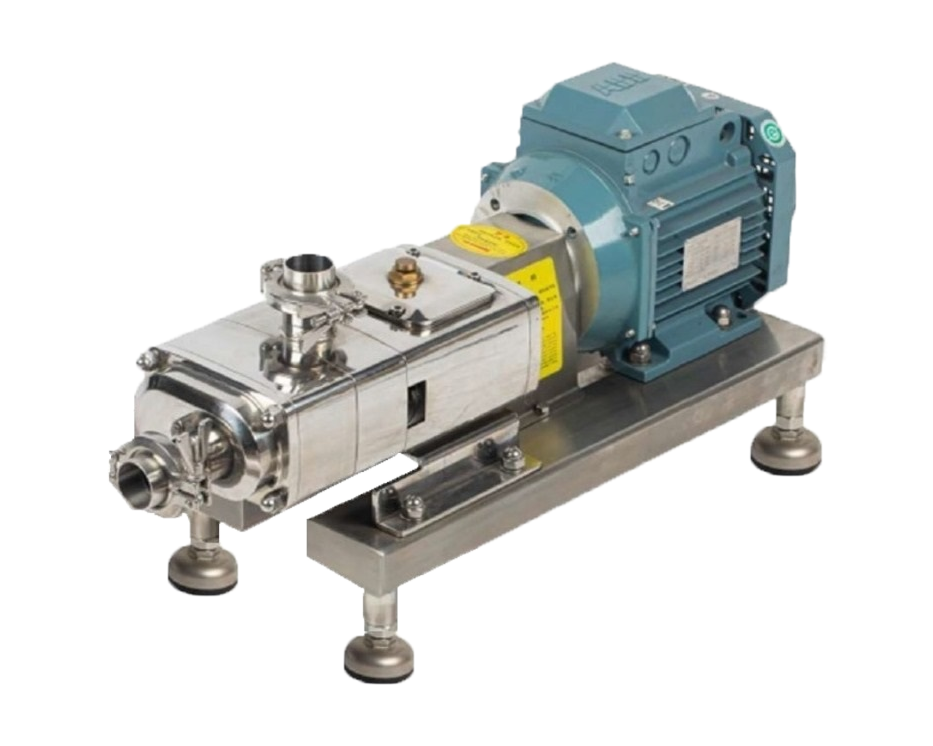
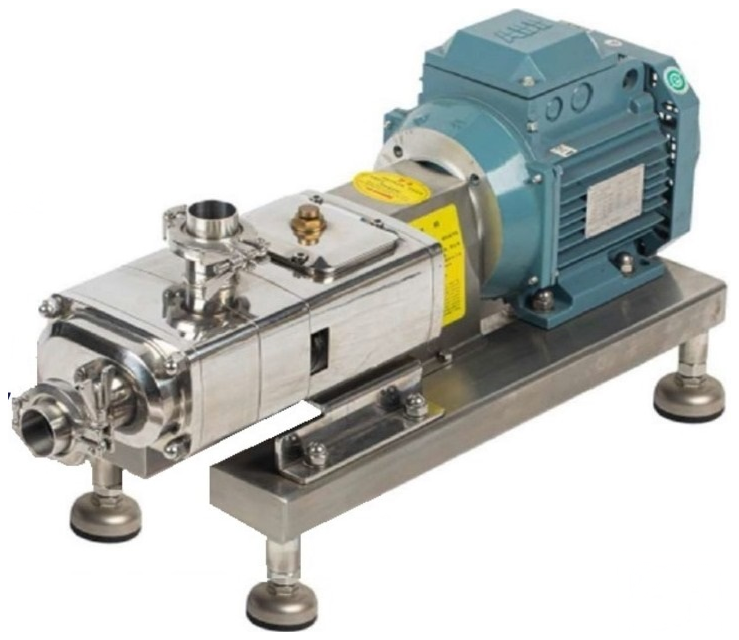
Site: moderniza a secao Nossas solucoes e limpa as fotos de produto
Cards deixam de ser retangulos brancos colados sobre o escuro e passam a
ser paineis escuros translucidos com uma janela clara para o produto. A
secao volta a ler como um campo escuro desenhado, e nao como caixas
brancas cancelando o fundo.

Substitui os tres botoes solidos repetidos por card inteiro clicavel, com
seta que desliza no hover. Acrescenta numeracao de catalogo e etiqueta de
categoria, leitura tecnica coerente com uma industria.

Normaliza a escala dos produtos cortando as margens brancas de cada foto.
Era o que fazia o Triblender parecer menor que as bombas. Placa passa a
ser quadrada, que acomoda melhor proporcoes mistas.

Limpa artefatos das fotos. Com mix-blend-mode multiply o fundo branco da
foto deixa de cobrir a placa, e apareceram fragmentos de texto e uma
marca-d'agua que estavam invisiveis contra branco puro. Removidos por
componente conectado: preserva o produto, que passa pelo centro, e
descarta as ilhas soltas.

Extrai o simbolo do logo dessa mesma marca-d'agua para
identidade/logo-simbolo-extraido.png. E baixa resolucao e serve so como
referencia para redesenho em vetor.

Registra no design-guide que o traco do logo e azul-marinho, nao roxo:
mediana #1E276D, traco puro #142553. O rodape e os botoes do site atual
tambem sao azuis. O Brand ID que originou o guia definiu roxo #40217A
marcando-o como aproximacao. Fica documentado como divergencia a decidir;
nada foi alterado.

Claude-Session: https://claude.ai/code/session_018WP8wJEtLaDmtgyaEpVqpL

diff --git a/site/index.html b/site/index.html
@@ -149,65 +149,50 @@
 
     <div class="sol__grid">
 
-      <article class="card">
+      <a class="card" href="#">
         <div class="card__plate">
-          <span class="card__ph">Foto pendente<br><b>bomba-duplo-parafuso.png</b></span>
-          <img class="card__img" loading="lazy" onerror="this.remove()"
-               src="assets/produtos/bomba-duplo-parafuso.png"
-               alt="Bomba duplo parafuso Bombinox em aço inox sobre base com pés reguláveis">
+          <img class="card__img" loading="lazy" src="assets/produtos/bomba-duplo-parafuso.png" alt="Bomba duplo parafuso Bombinox em aço inox sobre base com pés reguláveis">
         </div>
         <div class="card__body">
+          <div class="card__meta">
+            <span class="card__tag">Bomba</span>
+            <span class="card__num">01</span>
+          </div>
           <h3 class="card__title">Bomba duplo parafuso</h3>
-          <p class="card__text">
-            Essa bomba caracteriza-se por um sistema de bombeamento realizado por
-            rotores que lembram dois parafusos.
-          </p>
-          <a class="card__link" href="#">
-            Saiba mais
-            <svg viewBox="0 0 24 24" aria-hidden="true"><line x1="4" y1="12" x2="19" y2="12"/><polyline points="13,6 19,12 13,18"/></svg>
-          </a>
+          <p class="card__text">Essa bomba caracteriza-se por um sistema de bombeamento realizado por rotores que lembram dois parafusos.</p>
+          <span class="card__go">Saiba mais <svg viewBox="0 0 24 24" aria-hidden="true"><line x1="4" y1="12" x2="19" y2="12"/><polyline points="13,6 19,12 13,18"/></svg></span>
         </div>
-      </article>
+      </a>
 
-      <article class="card">
+      <a class="card" href="#">
         <div class="card__plate">
-          <span class="card__ph">Foto pendente<br><b>bomba-lobulos.png</b></span>
-          <img class="card__img" loading="lazy" onerror="this.remove()"
-               src="assets/produtos/bomba-lobulos.png"
-               alt="Bomba de lóbulos Bombinox em aço inox acoplada a motorredutor">
+          <img class="card__img" loading="lazy" src="assets/produtos/bomba-lobulos.png" alt="Bomba de lóbulos Bombinox em aço inox acoplada a motorredutor">
         </div>
         <div class="card__body">
+          <div class="card__meta">
+            <span class="card__tag">Bomba</span>
+            <span class="card__num">02</span>
+          </div>
           <h3 class="card__title">Bomba de lóbulos</h3>
-          <p class="card__text">
-            A bomba de lóbulos figura nas aplicações onde exista a necessidade de
-            transferência de fluidos com média e alta viscosidade.
-          </p>
-          <a class="card__link" href="#">
-            Saiba mais
-            <svg viewBox="0 0 24 24" aria-hidden="true"><line x1="4" y1="12" x2="19" y2="12"/><polyline points="13,6 19,12 13,18"/></svg>
-          </a>
+          <p class="card__text">A bomba de lóbulos figura nas aplicações onde exista a necessidade de transferência de fluidos com média e alta viscosidade.</p>
+          <span class="card__go">Saiba mais <svg viewBox="0 0 24 24" aria-hidden="true"><line x1="4" y1="12" x2="19" y2="12"/><polyline points="13,6 19,12 13,18"/></svg></span>
         </div>
-      </article>
+      </a>
 
-      <article class="card">
+      <a class="card" href="#">
         <div class="card__plate">
-          <span class="card__ph">Foto pendente<br><b>triblender.png</b></span>
-          <img class="card__img" loading="lazy" onerror="this.remove()"
-               src="assets/produtos/triblender.png"
-               alt="Triblender Bombinox em aço inox com funil cônico e base tubular">
+          <img class="card__img" loading="lazy" src="assets/produtos/triblender.png" alt="Triblender Bombinox em aço inox com funil cônico e base tubular">
         </div>
         <div class="card__body">
+          <div class="card__meta">
+            <span class="card__tag">Misturador</span>
+            <span class="card__num">03</span>
+          </div>
           <h3 class="card__title">Triblender / misturadores</h3>
-          <p class="card__text">
-            Os Triblenders são misturadores de líquidos e pós, compostos de uma ou
-            duas bombas e um funil, conforme a aplicação.
-          </p>
-          <a class="card__link" href="#">
-            Saiba mais
-            <svg viewBox="0 0 24 24" aria-hidden="true"><line x1="4" y1="12" x2="19" y2="12"/><polyline points="13,6 19,12 13,18"/></svg>
-          </a>
+          <p class="card__text">Os Triblenders são misturadores de líquidos e pós, compostos de uma ou duas bombas e um funil, conforme a aplicação.</p>
+          <span class="card__go">Saiba mais <svg viewBox="0 0 24 24" aria-hidden="true"><line x1="4" y1="12" x2="19" y2="12"/><polyline points="13,6 19,12 13,18"/></svg></span>
         </div>
-      </article>
+      </a>
 
     </div>
   </div>

diff --git a/site/css/style.css b/site/css/style.css
@@ -442,107 +442,117 @@ button{ font:inherit; color:inherit; background:none; border:0; cursor:pointer; 
   gap:26px;
 }
 
+/* card escuro com janela clara para o produto: a peça continua sobre
+   fundo claro, mas o card deixa de ser um retângulo branco colado no escuro */
 .card{
+  position:relative;
   display:flex;
   flex-direction:column;
-  overflow:hidden;
-  border-radius:14px;
-  background:var(--branco);
-  color:var(--grafite);
-  transition:transform .3s var(--ease), box-shadow .3s var(--ease);
+  padding:14px 14px 0;
+  border-radius:18px;
+  background:rgba(255,255,255,.045);
+  box-shadow:inset 0 0 0 1px rgba(255,255,255,.09);
+  color:var(--branco);
+  transition:transform .35s var(--ease), background-color .35s var(--ease),
+             box-shadow .35s var(--ease);
 }
 .card:hover{
-  transform:translateY(-5px);
-  box-shadow:0 18px 40px rgba(0,0,0,.34);
+  transform:translateY(-6px);
+  background:rgba(255,255,255,.075);
+  box-shadow:inset 0 0 0 1px rgba(255,255,255,.22),
+             0 26px 54px rgba(0,0,0,.42);
 }
 
-/* placa clara para a foto — os produtos são recortados em fundo branco */
 .card__plate{
   position:relative;
   display:flex;
   align-items:center;
   justify-content:center;
-  aspect-ratio:4/3;
-  padding:18px;
-  background:linear-gradient(160deg,#FFFFFF 0%,#EFF0F3 100%);
+  aspect-ratio:1/1;
+  padding:26px;
+  border-radius:12px;
+  overflow:hidden;
+  background:radial-gradient(120% 120% at 50% 18%,#FFFFFF 0%,#EDEEF2 62%,#DEE0E6 100%);
 }
-/* absoluta de propósito: no fluxo, uma foto retrato estica a placa e
-   desalinha a linha de cards */
 .card__img{
   position:absolute;
-  z-index:1;
-  inset:18px;
-  width:calc(100% - 36px);
-  height:calc(100% - 36px);
+  inset:26px;
+  width:calc(100% - 52px);
+  height:calc(100% - 52px);
   object-fit:contain;
+  mix-blend-mode:multiply;
+  transition:transform .5s var(--ease);
 }
-/* aparece só enquanto a foto real não existe (o <img> se remove se falhar) */
-.card__ph{
-  position:absolute;
-  z-index:0;
-  padding:9px 14px;
-  background:rgba(23,23,23,.72);
-  color:var(--branco);
-  font-size:10px;
-  font-weight:600;
-  letter-spacing:.06em;
-  line-height:1.7;
-  text-align:center;
-  text-transform:uppercase;
-}
-.card__ph b{ font-weight:700; text-transform:none; }
+.card:hover .card__img{ transform:scale(1.05); }
 
 .card__body{
   display:flex;
   flex-direction:column;
   flex:1 1 auto;
-  padding:24px 24px 26px;
-  border-top:1px solid var(--cinza-linha);
+  padding:22px 10px 24px;
+}
+
+.card__meta{
+  display:flex;
+  align-items:center;
+  justify-content:space-between;
+  gap:12px;
+  margin-bottom:12px;
+}
+.card__tag{
+  font-size:10px;
+  font-weight:700;
+  letter-spacing:.18em;
+  text-transform:uppercase;
+  color:rgba(255,255,255,.5);
+}
+/* numeração de catálogo — leitura técnica, não decorativa */
+.card__num{
+  font-size:11px;
+  font-weight:700;
+  letter-spacing:.1em;
+  color:rgba(255,255,255,.28);
+  font-variant-numeric:tabular-nums;
 }
 
 .card__title{
   margin:0 0 10px;
-  font-size:17px;
-  font-weight:700;
-  line-height:1.3;
-  color:var(--grafite);
+  font-size:18px;
+  font-weight:600;
+  line-height:1.32;
+  letter-spacing:-.005em;
+  color:var(--branco);
 }
 
 .card__text{
-  margin:0 0 20px;
+  margin:0 0 22px;
   font-size:13.5px;
   line-height:1.7;
-  color:var(--cinza-txt);
+  color:rgba(255,255,255,.58);
 }
 
-.card__link{
+/* o card inteiro é o link: some o botão sólido repetido três vezes */
+.card__go{
   display:inline-flex;
   align-items:center;
-  align-self:flex-start;
   gap:9px;
   margin-top:auto;
-  height:42px;
-  padding:0 22px;
-  border-radius:6px;
-  background:var(--roxo);
-  color:var(--branco);
   font-size:11.5px;
   font-weight:700;
-  letter-spacing:.1em;
+  letter-spacing:.12em;
   text-transform:uppercase;
-  transition:background-color .25s var(--ease);
+  color:var(--branco);
 }
-.card__link:hover{ background:var(--roxo-esc); }
-.card__link svg{
+.card__go svg{
   width:15px; height:15px;
   fill:none;
   stroke:currentColor;
   stroke-width:2;
   stroke-linecap:round;
   stroke-linejoin:round;
-  transition:transform .25s var(--ease);
+  transition:transform .3s var(--ease);
 }
-.card__link:hover svg{ transform:translateX(3px); }
+.card:hover .card__go svg{ transform:translateX(5px); }
 
 
 /* =============================================================

diff --git a/identidade/design-guide.md b/identidade/design-guide.md
@@ -157,8 +157,23 @@ acompanhando a parte inferior do círculo.
 
 Leitura completa: *símbolo técnico + BOMBINOX + roxo profundo + branco.*
 
-- **Arquivo:** ⚠ **pendente** — falta `identidade/logo.svg` ou
-  `identidade/logo.png`
+- **Arquivo:** ⚠ ainda falta o vetor. Existe
+  `identidade/logo-simbolo-extraido.png`, **extraído da marca-d'água presente
+  nas fotos de produto** — 117×131 px de origem, ampliado. Serve como
+  referência para redesenho em vetor, **não como arquivo de produção**.
+
+> ⚠ **Divergência de cor a resolver.** No logo extraído o traço é
+> **azul-marinho**, não roxo. Medição: mediana `#1E276D`, traço puro `#142553`.
+> O print do rodapé do site atual também é azul-marinho, e os botões do site
+> atual são azuis.
+>
+> O Brand ID que originou este guia definiu roxo `#40217A`, marcando-o como
+> aproximação visual e não spec oficial. Todo o site foi construído em roxo, a
+> pedido do usuário e mantido em várias iterações.
+>
+> Se a decisão for adotar o azul real, a troca é de uma linha: a variável
+> `--roxo` em `site/css/style.css` alimenta toda a paleta. Enquanto não houver
+> decisão, o roxo permanece.
 - **Versão pra fundo escuro:** ⚠ pendente (ex: `identidade/logo-branco.png`)
 - **Onde usar:** cabeçalho do site, slide final do carrossel (CTA), header de
   propostas, slides de apresentação, rodapé
